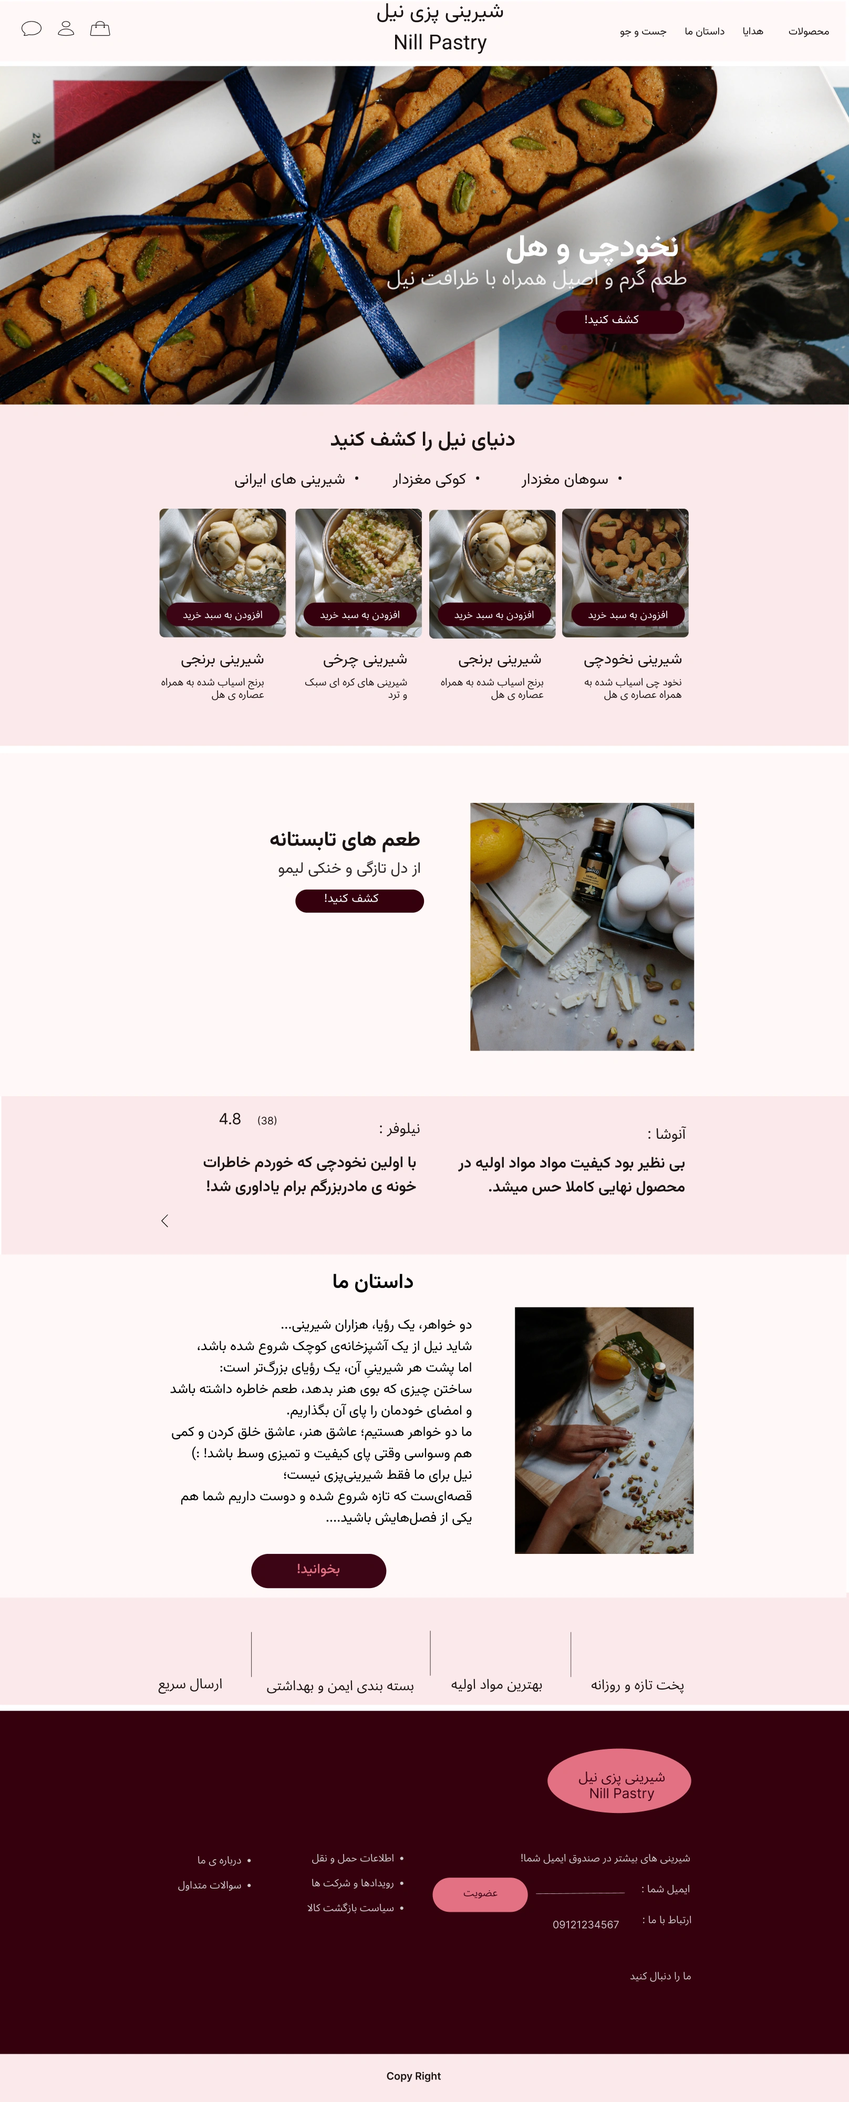
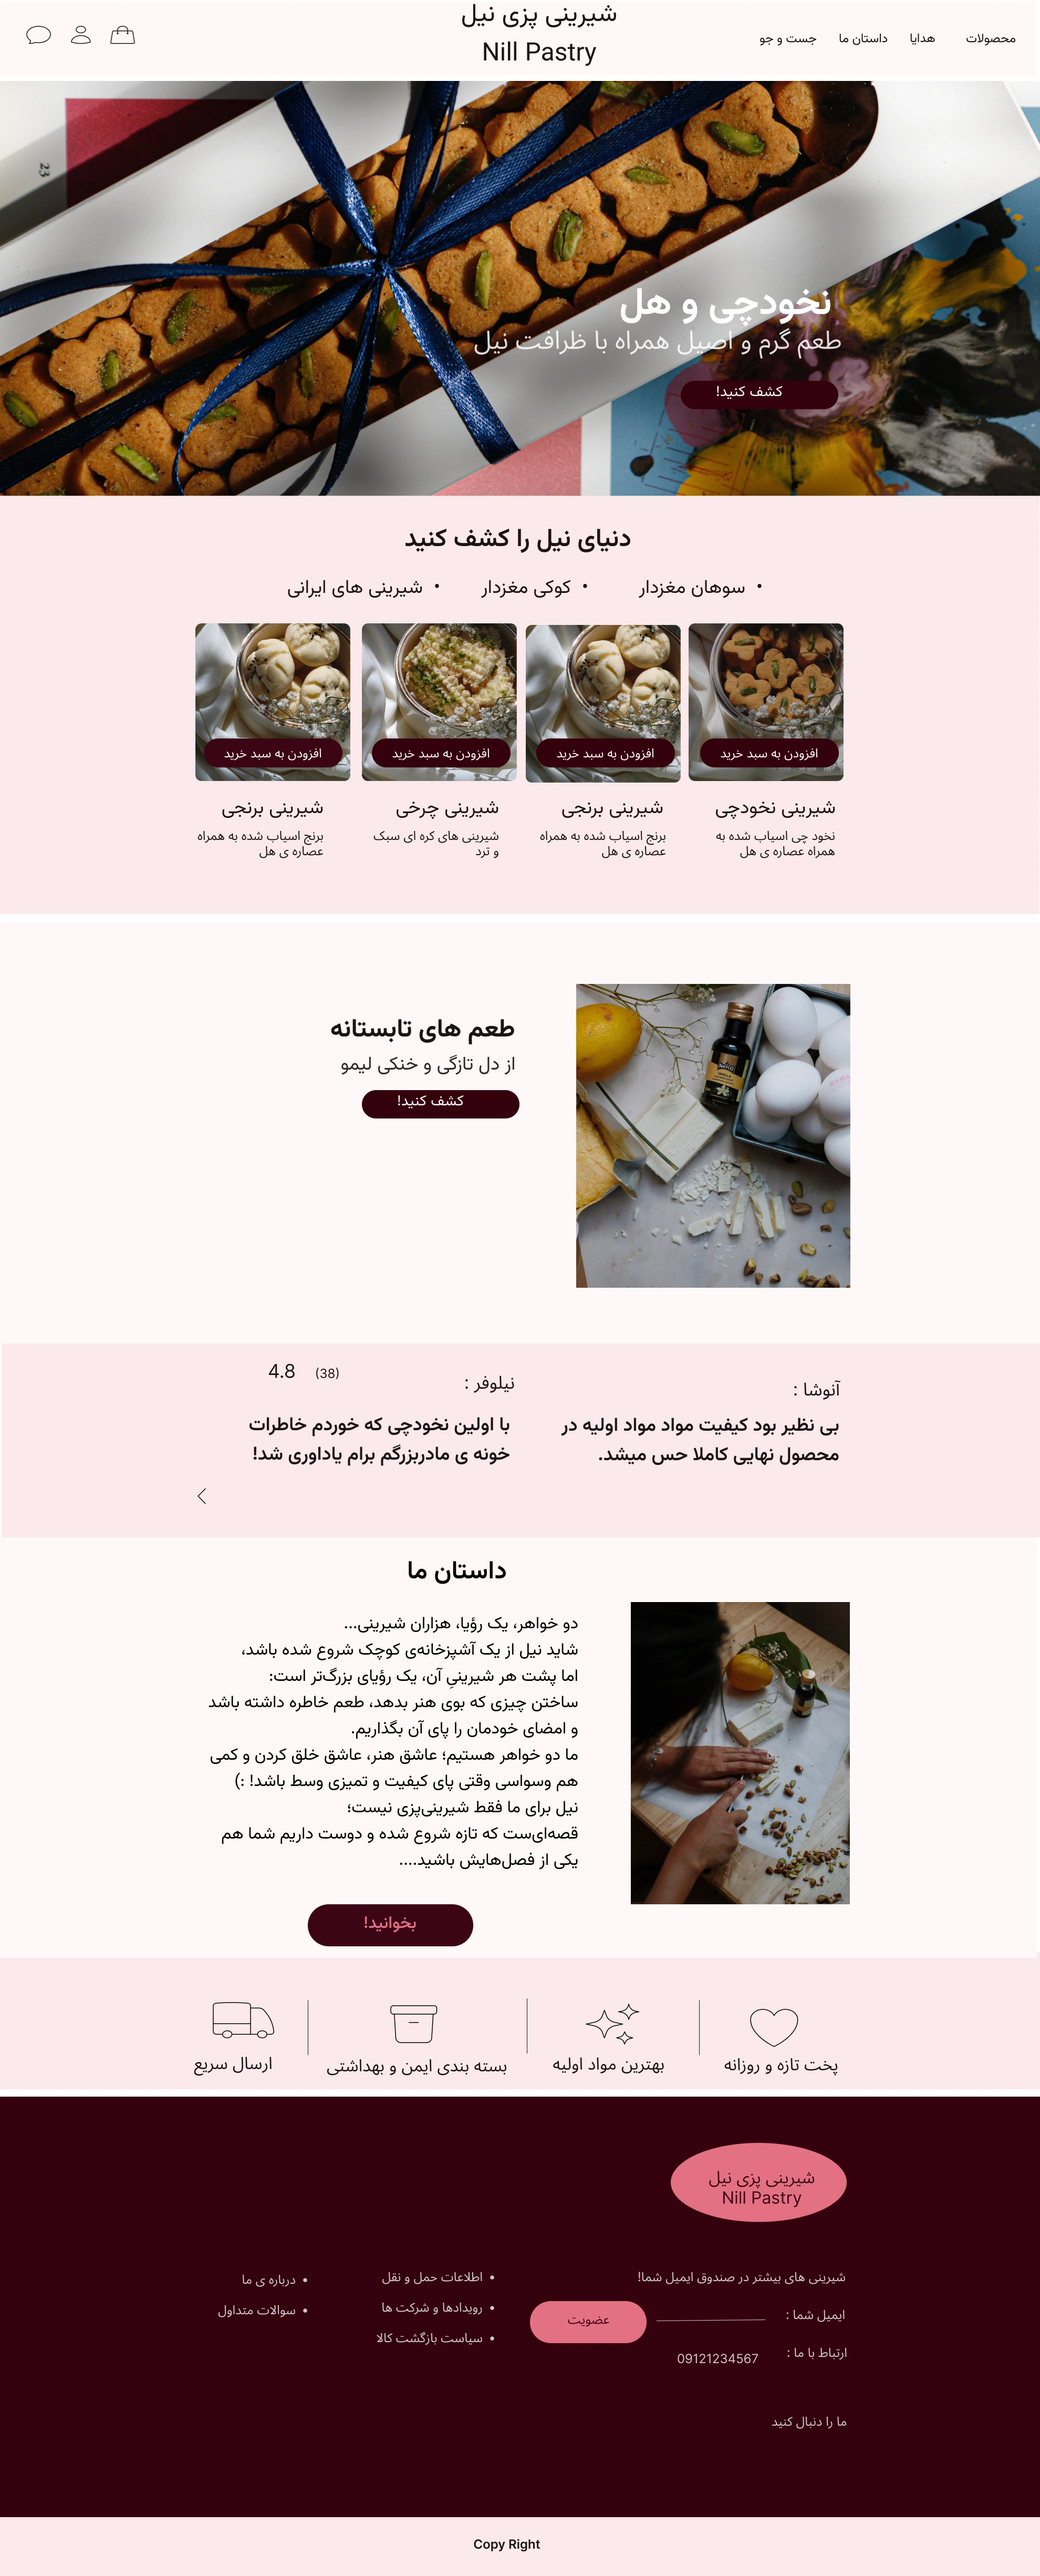
Add design system section and refresh images from Figma
Pulled the current state of the Figma file through the REST API rather
than working from stale exports.

Design system (new section)
- Colour roles and values read from the file's Design System page:
  Primary, Secondary, Tertiary, Error and the Surface ramp, each with
  its paired On- colour
- Typography documented from what the design actually uses, Vazirmatn
  for Persian and Inter for Latin, not the Roboto reference table left
  on the Figma canvas
- Presented as live swatches and a type scale rather than a screenshot
  of the canvas, which is still unsorted

Images
- Homepage re-exported at 1980px wide, up from 1616px
- Hero cropped from the full-page render instead of rendering its own
  frame, which came back with transparent edges that would have shown
  the page background through the banner
- Declared dimensions and the hero aspect ratio updated to match
- WebP regenerated and verified: hero 40.5 dB, homepage 43.9 dB

The homepage layout itself is unchanged; a band-by-band comparison of
old against new showed differences at noise level, so the resolution
bump is the whole of it.

diff --git a/case-studies/nill-pastry.html b/case-studies/nill-pastry.html
@@ -82,7 +82,7 @@
         <source srcset="../assets/images/nill/nill-ui-hero.webp" type="image/webp">
         <img src="../assets/images/nill/nill-ui-hero.png"
              alt="بخش هیروی رابط نهایی شیرینیپزی نیل: جعبهٔ شیرینی نخودچی با روبان آبی، عنوان «نخودچی و هل» و دکمهٔ «کشف کنید»"
-             width="1980" height="813" fetchpriority="high">
+             width="1980" height="779" fetchpriority="high">
       </picture>
       <figcaption>بخش هیروی رابط نهایی. عکاسی واقعی محصول، نه تصویر مصنوعی؛ دلیل این انتخاب در بخش یافتهها آمده است.</figcaption>
     </figure>
@@ -110,6 +110,7 @@
       <li><a href="#hmw">چطور میتوانیم</a></li>
       <li><a href="#ideation">ایدهپردازی و اولویت</a></li>
       <li><a href="#design">از وایرفریم تا رابط</a></li>
+      <li><a href="#system">سیستم طراحی</a></li>
       <li><a href="#decisions">تصمیمها در یک نگاه</a></li>
       <li><a href="#scope">دامنه و فاز بعد</a></li>
       <li><a href="#measure">برنامهٔ سنجش</a></li>
@@ -751,9 +752,9 @@
 
     <h3>زبان بصری</h3>
     <p>
-      پالت رنگی از خود محصول استخراج شد: شرابی عمیق برای عناصر تصمیمساز و دکمهها،
-      صورتی روشن برای زمینهٔ بخشهای احساسی، و فضای خالی کافی تا تصویر محصول فضای لازم را داشته باشد.
-      تمام تصاویر واقعی هستند و هیچ تصویر تولیدشده با هوش مصنوعی به کار نرفته است؛
+      پالت رنگی از خود محصول استخراج شد و فضای خالی کافی در نظر گرفته شد تا تصویر محصول
+      فضای لازم را داشته باشد. ساختار کامل رنگ و تایپوگرافی در بخش بعد آمده است.
+      نکتهٔ مهمتر اینکه تمام تصاویر واقعی هستند و هیچ تصویر تولیدشده با هوش مصنوعی به کار نرفته؛
       این تصمیمی مستقیم بر پایهٔ یافتهٔ «اعتماد بصری» بود، نه یک انتخاب سلیقهای.
     </p>
 
@@ -762,13 +763,110 @@
         <source srcset="../assets/images/nill/nill-ui-desktop.webp" type="image/webp">
         <img src="../assets/images/nill/nill-ui-desktop.png"
              alt="نمای کامل صفحهٔ اصلی دسکتاپ شیرینیپزی نیل از هدر تا فوتر"
-             loading="lazy" width="1616" height="4000">
+             loading="lazy" width="1980" height="4901">
       </picture>
       <figcaption>رابط نهایی صفحهٔ اصلی، نمای کامل نسخهٔ دسکتاپ.</figcaption>
     </figure>
   </section>
 
-  <!-- 14. تصمیمها -->
+  <!-- ۱۴. سیستم طراحی -->
+  <section class="cs-section" id="system">
+    <h2>سیستم طراحی</h2>
+    <p>
+      برای اینکه طراحی در فازهای بعد قابل گسترش بماند، بهجای انتخاب رنگ برای هر بخش،
+      یک سیستم نقشمحور بر پایهٔ ساختار Material Design 3 تعریف کردم.
+      هر رنگ یک وظیفه دارد، نه یک محل مصرف ثابت؛ بنابراین وقتی صفحهٔ محصول یا سبد خرید ساخته شود،
+      تصمیم رنگی تازهای لازم نیست.
+    </p>
+
+    <h3>رنگهای اصلی</h3>
+    <div class="swatches">
+      <div class="swatch">
+        <div class="chip" style="background:#3b0010;color:#fff">#3b0010</div>
+        <div class="meta"><b>Primary</b><span>دکمهها و عناصر تصمیمساز</span></div>
+      </div>
+      <div class="swatch">
+        <div class="chip" style="background:#5e0821;color:#fff">#5e0821</div>
+        <div class="meta"><b>Primary Container</b><span>زمینهٔ فوتر و نواحی تیره</span></div>
+      </div>
+      <div class="swatch">
+        <div class="chip" style="background:#e37184;color:#2a0e15">#e37184</div>
+        <div class="meta"><b>On Primary Container</b><span>متن و نشان روی زمینهٔ تیره</span></div>
+      </div>
+      <div class="swatch">
+        <div class="chip" style="background:#835057;color:#fff">#835057</div>
+        <div class="meta"><b>Secondary</b><span>عناصر پشتیبان</span></div>
+      </div>
+      <div class="swatch">
+        <div class="chip" style="background:#ffbec5;color:#4a1a22">#ffbec5</div>
+        <div class="meta"><b>Secondary Container</b><span>دکمههای کمتأکید</span></div>
+      </div>
+      <div class="swatch">
+        <div class="chip" style="background:#7b4a51;color:#fff">#7b4a51</div>
+        <div class="meta"><b>On Secondary Container</b><span>متن روی زمینهٔ صورتی</span></div>
+      </div>
+      <div class="swatch">
+        <div class="chip" style="background:#2e1000;color:#fff">#2e1000</div>
+        <div class="meta"><b>Tertiary</b><span>تأکید گرم و مکمل</span></div>
+      </div>
+      <div class="swatch">
+        <div class="chip" style="background:#ba1a1a;color:#fff">#ba1a1a</div>
+        <div class="meta"><b>Error</b><span>خطا و هشدار</span></div>
+      </div>
+    </div>
+
+    <h3>سطوح و متن</h3>
+    <div class="swatches">
+      <div class="swatch">
+        <div class="chip" style="background:#fff8f7;color:#23191a;border-bottom:1px solid var(--line)">#fff8f7</div>
+        <div class="meta"><b>Surface</b><span>زمینهٔ اصلی صفحه</span></div>
+      </div>
+      <div class="swatch">
+        <div class="chip" style="background:#fce9ea;color:#23191a;border-bottom:1px solid var(--line)">#fce9ea</div>
+        <div class="meta"><b>Surface Container</b><span>تفکیک بخشهای احساسی</span></div>
+      </div>
+      <div class="swatch">
+        <div class="chip" style="background:#e8d6d7;color:#23191a;border-bottom:1px solid var(--line)">#e8d6d7</div>
+        <div class="meta"><b>Surface Dim</b><span>سطح فرورفته و مرزها</span></div>
+      </div>
+      <div class="swatch">
+        <div class="chip" style="background:#23191a;color:#fff8f7">#23191a</div>
+        <div class="meta"><b>On Surface</b><span>متن اصلی</span></div>
+      </div>
+    </div>
+
+    <div class="note">
+      <div>
+        <b>چرا ساختار نقشمحور</b>
+        <p>
+          در این ساختار هر رنگ یک جفت دارد: رنگ زمینه و رنگی که روی آن مینشیند.
+          مثلاً هر چه روی <strong>Primary</strong> قرار بگیرد از <strong>On Primary</strong> استفاده میکند.
+          این کار خوانایی را از ابتدا تضمین میکند و جلوی ترکیبهای کمکنتراست را پیش از آنکه ساخته شوند میگیرد.
+        </p>
+      </div>
+    </div>
+
+    <h3>تایپوگرافی</h3>
+    <p>
+      دو خانوادهٔ فونت: <strong>وزیرمتن</strong> برای فارسی و <strong>Inter</strong> برای لاتین،
+      چون نام محصولات و برچسبها در این پروژه هر دو زبان را کنار هم دارند
+      و فونت فارسیِ بدون لاتینِ هماهنگ، ناهماهنگی بصری میسازد.
+    </p>
+
+    <div class="type-scale">
+      <div><span class="sample" style="font-size:40px;font-weight:700">نخودچی و هل</span><span class="spec">۷۲ · Bold</span></div>
+      <div><span class="sample" style="font-size:30px;font-weight:600">دنیای نیل را کشف کنید</span><span class="spec">۴۸ · SemiBold</span></div>
+      <div><span class="sample" style="font-size:23px;font-weight:600">طعمهای تابستانه</span><span class="spec">۳۶ · SemiBold</span></div>
+      <div><span class="sample" style="font-size:20px;font-weight:400">شیرینی نخودچی</span><span class="spec">۳۲ · Regular</span></div>
+      <div><span class="sample" style="font-size:16px;font-weight:400">نخود چی اسیاب شده به همراه عصارهٔ هل</span><span class="spec">۲۴ · Regular</span></div>
+    </div>
+
+    <p class="small muted">
+      اندازهها بر حسب پیکسل در فایل Figma هستند و در این جدول برای نمایش کوچک شدهاند.
+    </p>
+  </section>
+
+  <!-- ۱۵. تصمیمها -->
   <section class="cs-section" id="decisions">
     <h2>تصمیمها در یک نگاه</h2>
     <p>

diff --git a/css/styles.css b/css/styles.css
@@ -344,7 +344,7 @@ strong, b { color: var(--ink); font-weight: 600; }
   box-shadow: 0 0 0 3px color-mix(in srgb, var(--ok) 22%, transparent);
 }
 
-/* بنر هیرو — نسبت طبیعی تصویر (۱۹۸۰×۸۱۳)، بدون برش */
+/* بنر هیرو — نسبت طبیعی تصویر (۱۹۸۰×۷۷۹)، بدون برش */
 .hero-visual {
   position: relative;
   border-radius: var(--r-lg);
@@ -356,7 +356,7 @@ strong, b { color: var(--ink); font-weight: 600; }
 }
 .hero-visual img {
   width: 100%;
-  aspect-ratio: 1980 / 813;
+  aspect-ratio: 1980 / 779;
   object-fit: cover;
   object-position: center;
 }
@@ -990,6 +990,53 @@ td strong { color: var(--ink); font-weight: 600; }
 .note b { display: block; color: var(--ink); margin-bottom: 4px; }
 .note p { margin: 0; color: var(--ink-2); }
 .note--accent { border-inline-start-color: var(--accent); background: var(--accent-soft); }
+
+/* سیستم رنگ */
+.swatches {
+  display: grid;
+  grid-template-columns: repeat(auto-fill, minmax(168px, 1fr));
+  gap: 12px;
+  margin-block: 20px;
+}
+.swatch {
+  border: 1px solid var(--line);
+  border-radius: var(--r-md);
+  overflow: hidden;
+  background: var(--surface);
+}
+.swatch .chip {
+  height: 72px;
+  display: flex;
+  align-items: flex-end;
+  padding: 10px 12px;
+  font-size: .72rem;
+  font-weight: 600;
+  font-variant-numeric: tabular-nums;
+  direction: ltr;
+}
+.swatch .meta { padding: 10px 12px; }
+.swatch b { display: block; font-size: var(--step--1); font-weight: 600; color: var(--ink); }
+.swatch span { display: block; font-size: .72rem; color: var(--muted); line-height: 1.6; }
+
+/* مقیاس تایپوگرافی */
+.type-scale { margin-block: 20px; border: 1px solid var(--line); border-radius: var(--r-md); overflow: hidden; }
+.type-scale > div {
+  display: flex;
+  align-items: baseline;
+  gap: 18px;
+  padding: 14px 20px;
+  border-bottom: 1px solid var(--line);
+  background: var(--surface);
+}
+.type-scale > div:last-child { border-bottom: 0; }
+.type-scale .sample { color: var(--ink); line-height: 1.35; flex: 1; min-width: 0; }
+.type-scale .spec {
+  font-size: .74rem;
+  color: var(--muted);
+  font-variant-numeric: tabular-nums;
+  white-space: nowrap;
+  direction: ltr;
+}
 
 /* نقلقول */
 .quote {

diff --git a/index.html b/index.html
@@ -104,7 +104,7 @@
           <source srcset="assets/images/nill/nill-ui-hero.webp" type="image/webp">
           <img src="assets/images/nill/nill-ui-hero.png"
                alt="بخش هیروی رابط کاربری طراحیشده برای شیرینیپزی نیل: جعبهٔ شیرینی نخودچی با روبان آبی و عنوان «نخودچی و هل»"
-               width="1980" height="813" fetchpriority="high">
+               width="1980" height="779" fetchpriority="high">
         </picture>
         <figcaption>از پروژهٔ شیرینیپزی نیل، رابط نهایی در Figma</figcaption>
       </figure>
@@ -131,7 +131,7 @@
           <source srcset="assets/images/nill/nill-ui-desktop.webp" type="image/webp">
           <img src="assets/images/nill/nill-ui-desktop.png"
                alt="نمای کامل صفحهٔ اصلی دسکتاپ شیرینیپزی نیل شامل هیرو، دستهبندی محصولات، نظرات مشتریان و داستان برند"
-               loading="lazy" width="1616" height="4000">
+               loading="lazy" width="1980" height="4901">
         </picture>
       </div>
 
